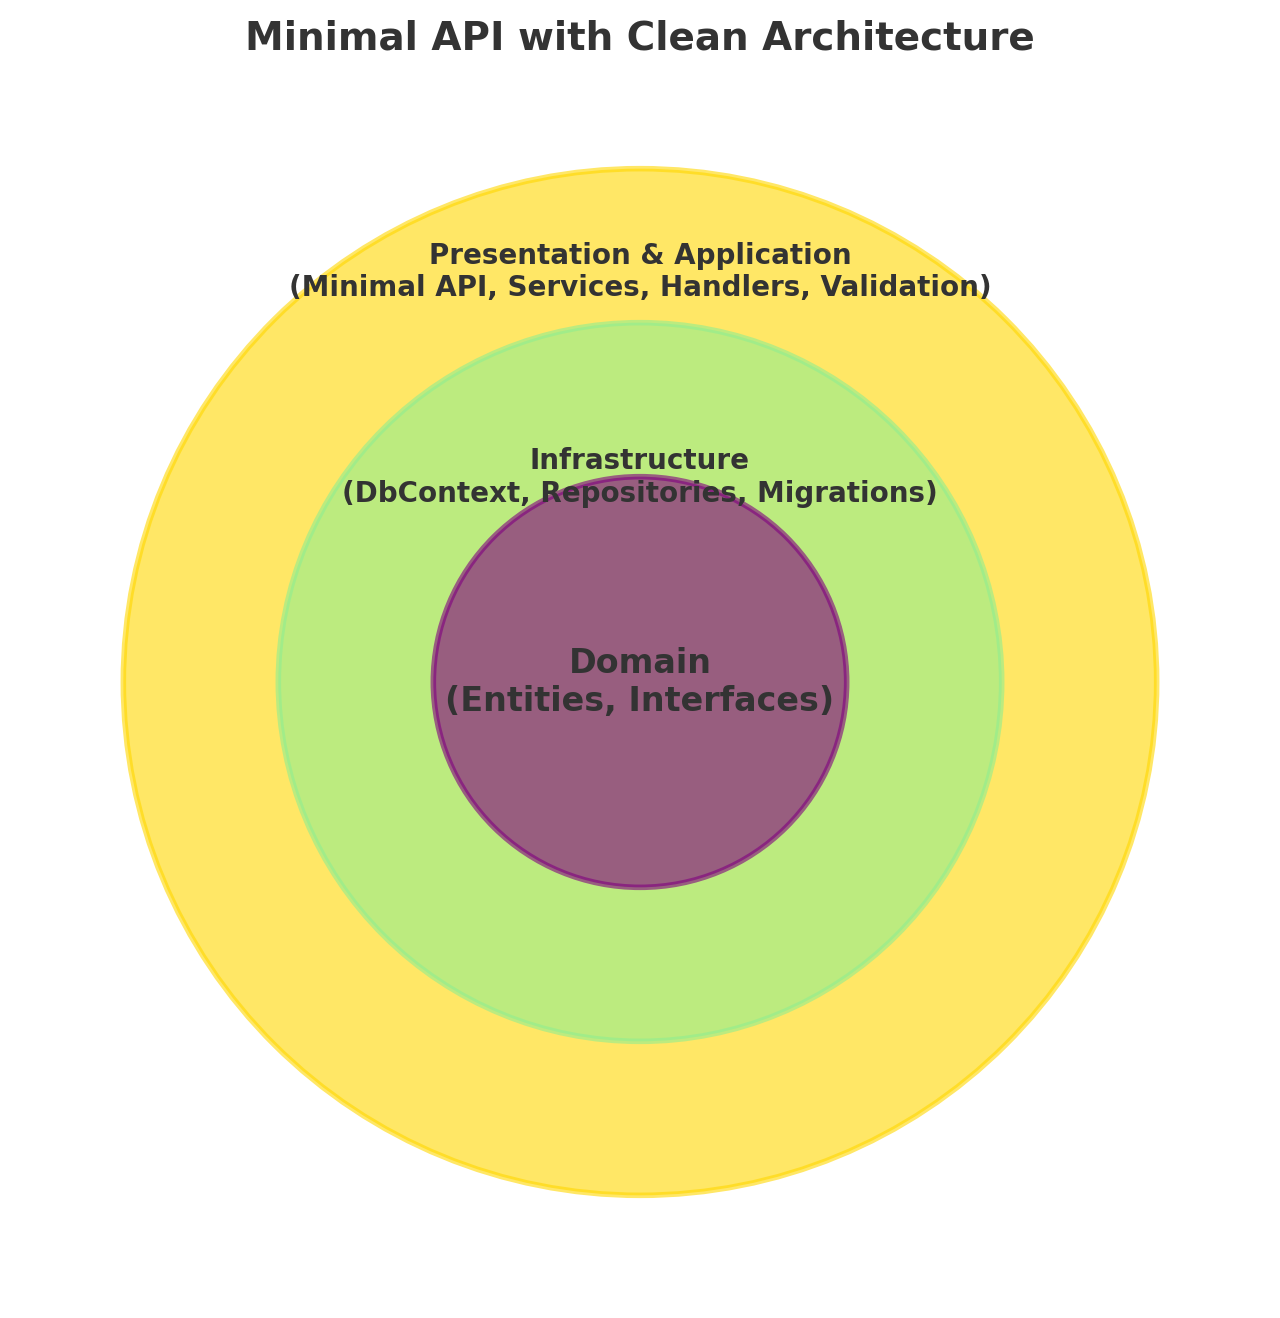
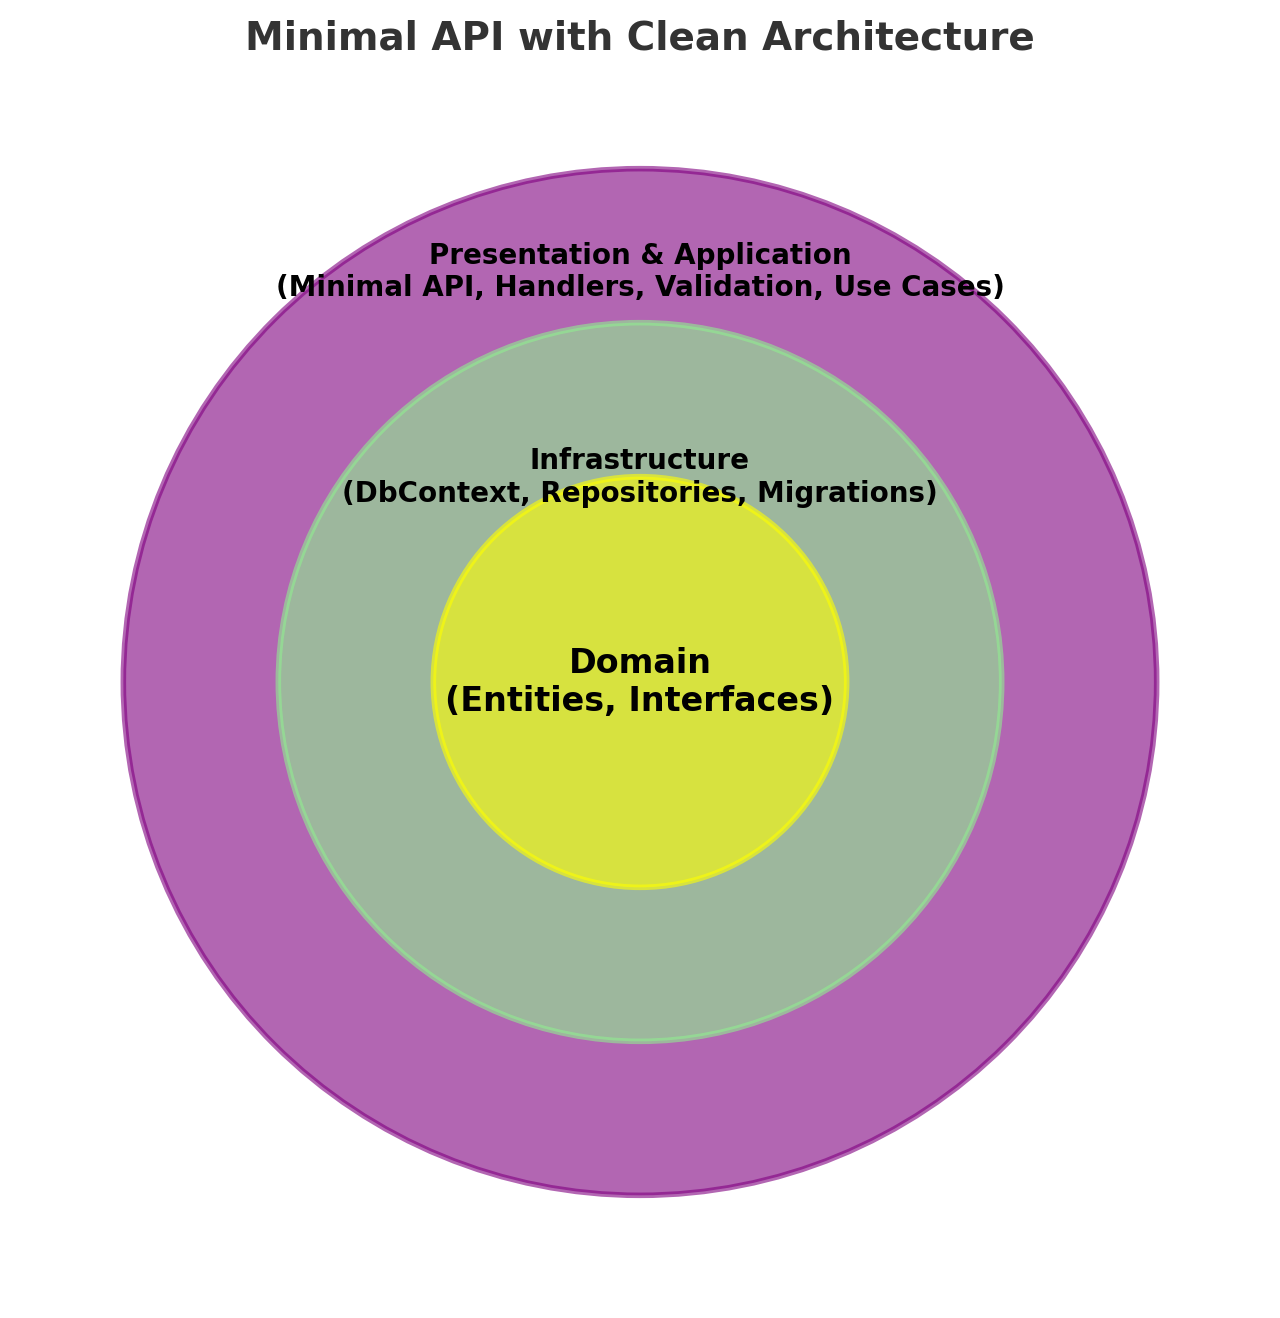
Update readme

diff --git a/README.md b/README.md
@@ -29,7 +29,23 @@ Clean Architecture organizes code into distinct layers to improve maintainabilit
 ## Project Architecture
 This project follows a pragmatic approach where the API integrates both the Application and Presentation layers while still ensuring a clear separation of concerns.
 
+
 ![Minimal API with Clean Architecture](docs/minimal-api-clean-architecture.jpg)
+
+The Use cases are structured using a **Vertical Slice approach**. 
+
+### **Why Vertical Slice for Use Cases?**
+Instead of separating handlers, validators, and mappers into global layers, each **use case** has its own self-contained folder, making it easier to manage and extend.
+
+### **Example: `CreateUser` Use Case**
+(docs/use-case-structure.png)
+Each use case contains:
+- **Endpoint:** Handles HTTP requests (`CreateUserEndpoint.cs`)
+- **Handler:** Implements business logic (`CreateUserHandler.cs`)
+- **Mapper:** Converts between domain and DTOs (`CreateUserMapper.cs`)
+- **Validator:** Ensures data integrity (`CreateUserValidator.cs`)
+
+📌 This structure keeps related logic together, making it **easier to navigate, test, and scale** without losing the core principles of **Clean Architecture**.
 
 ## Patterns Used
 - **CQRS (Command and Query Responsibility Segregation)**
